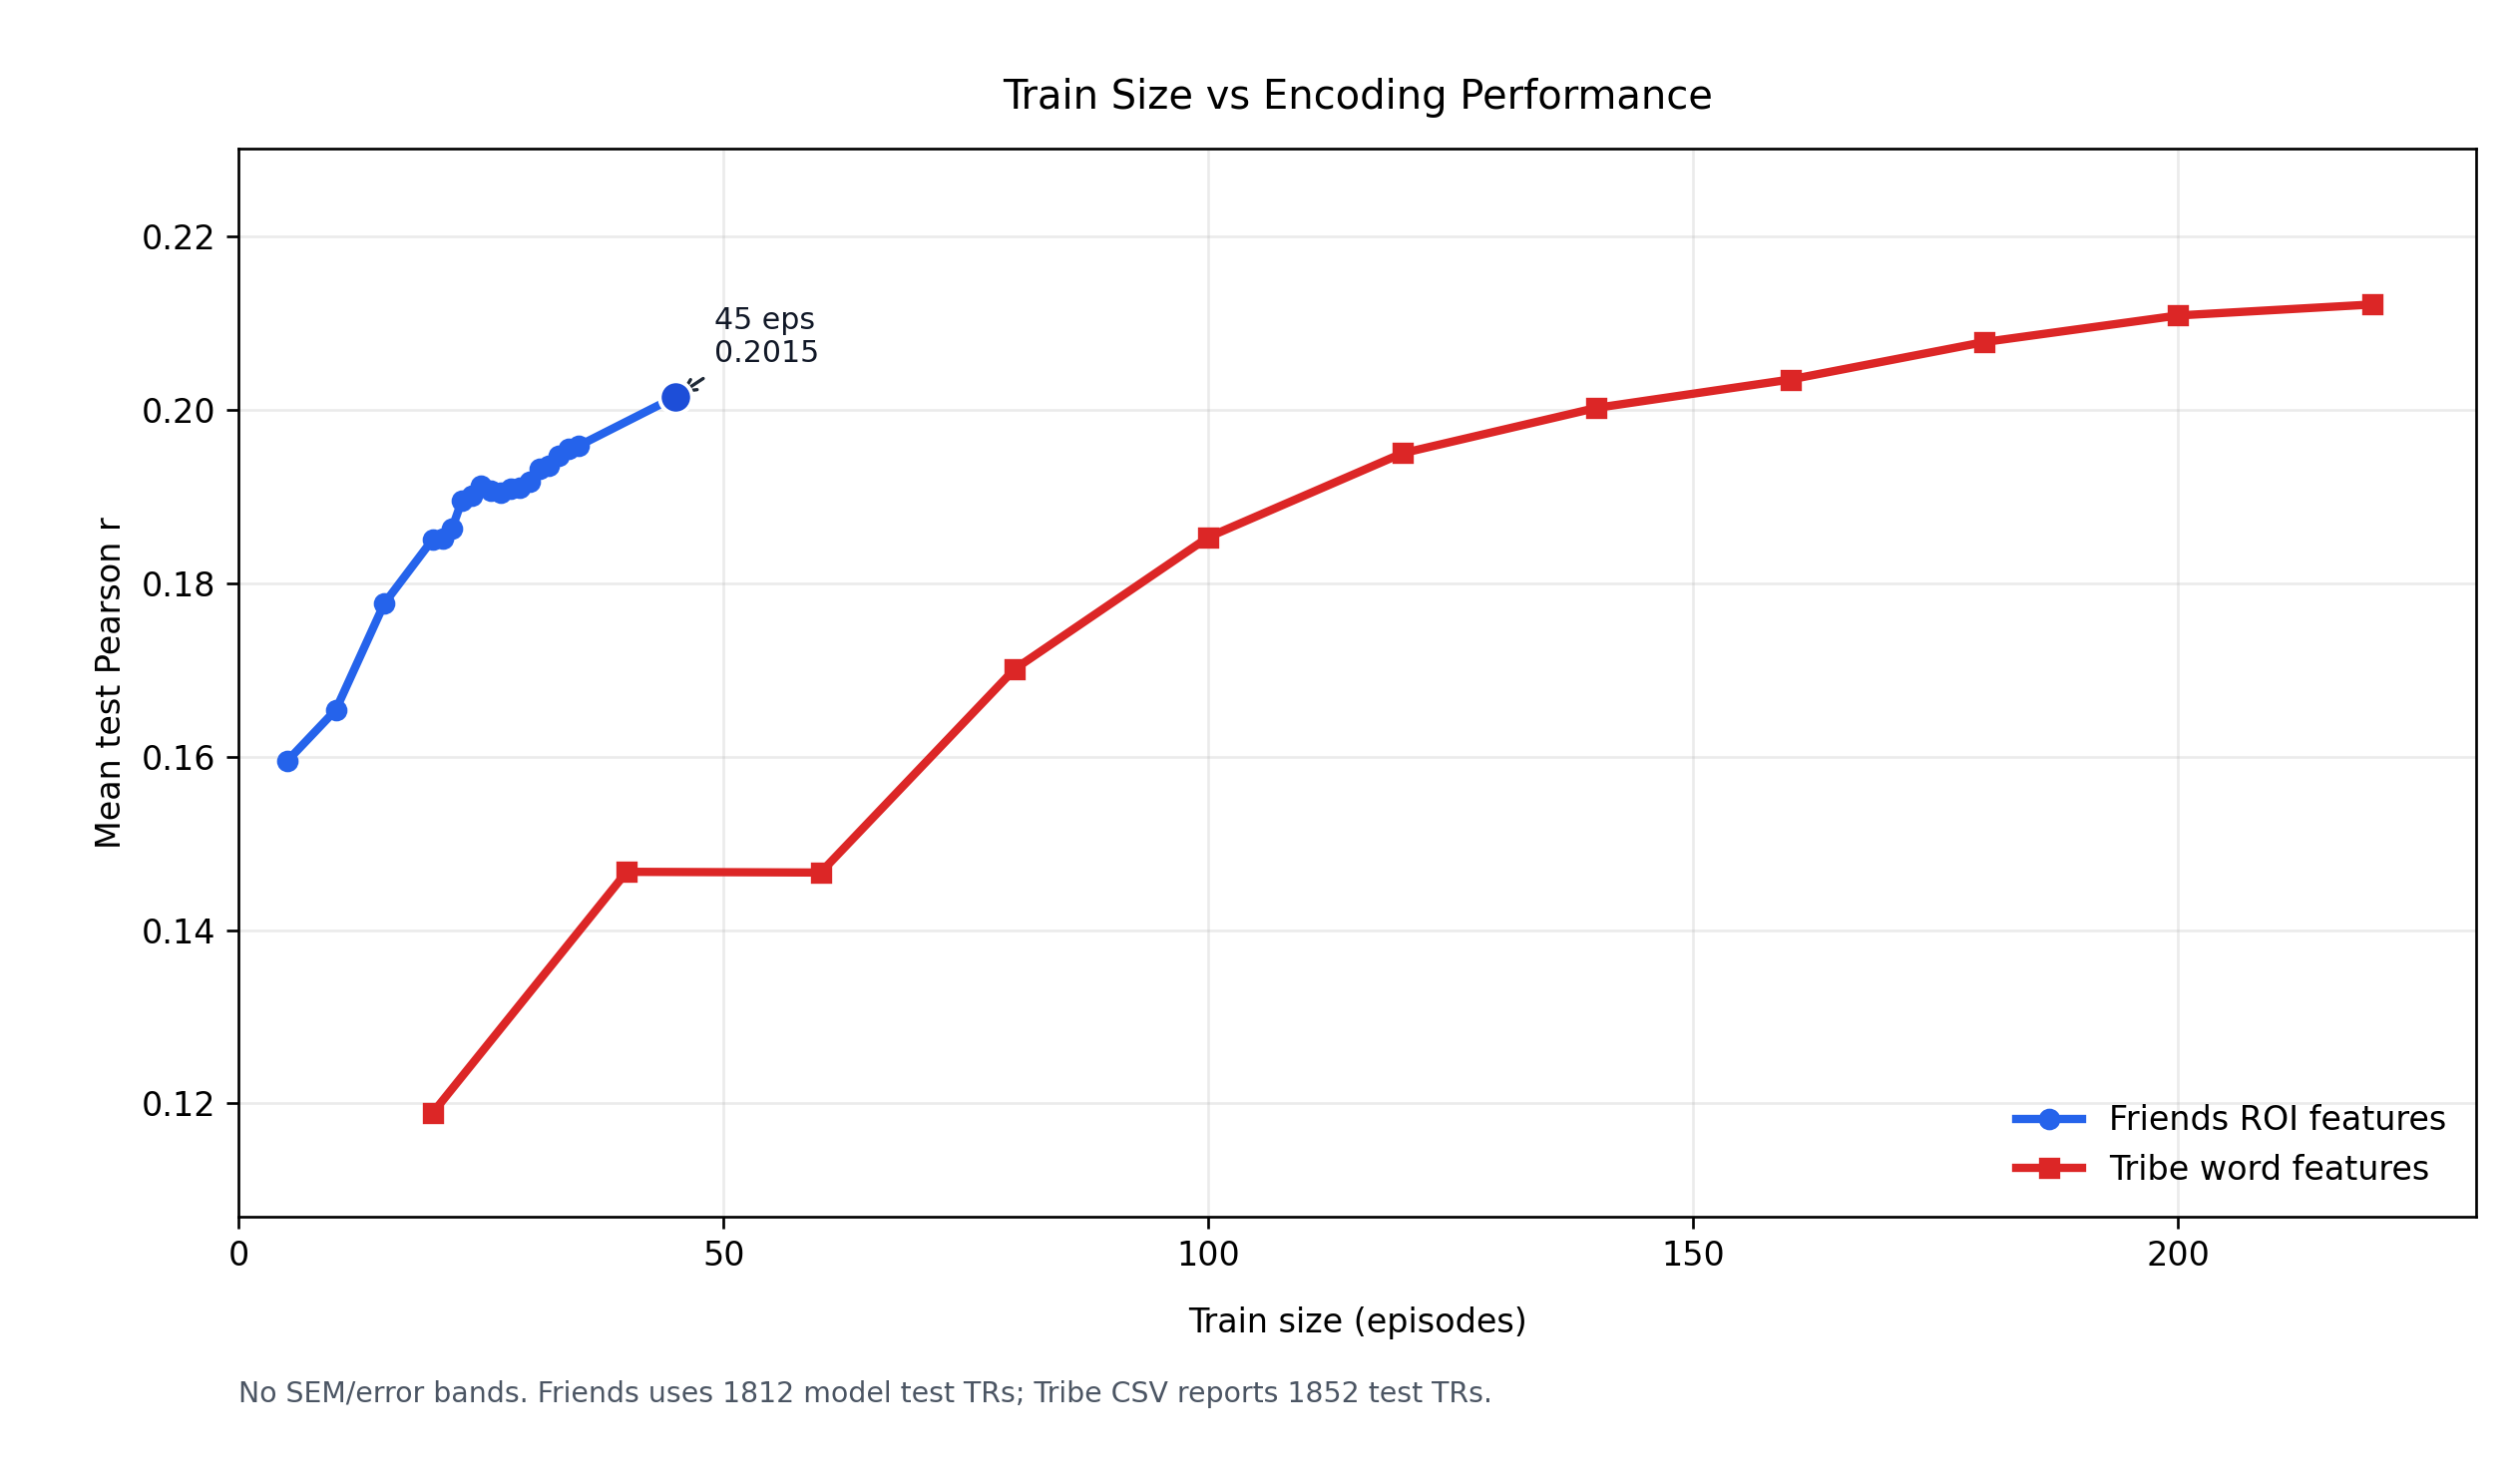
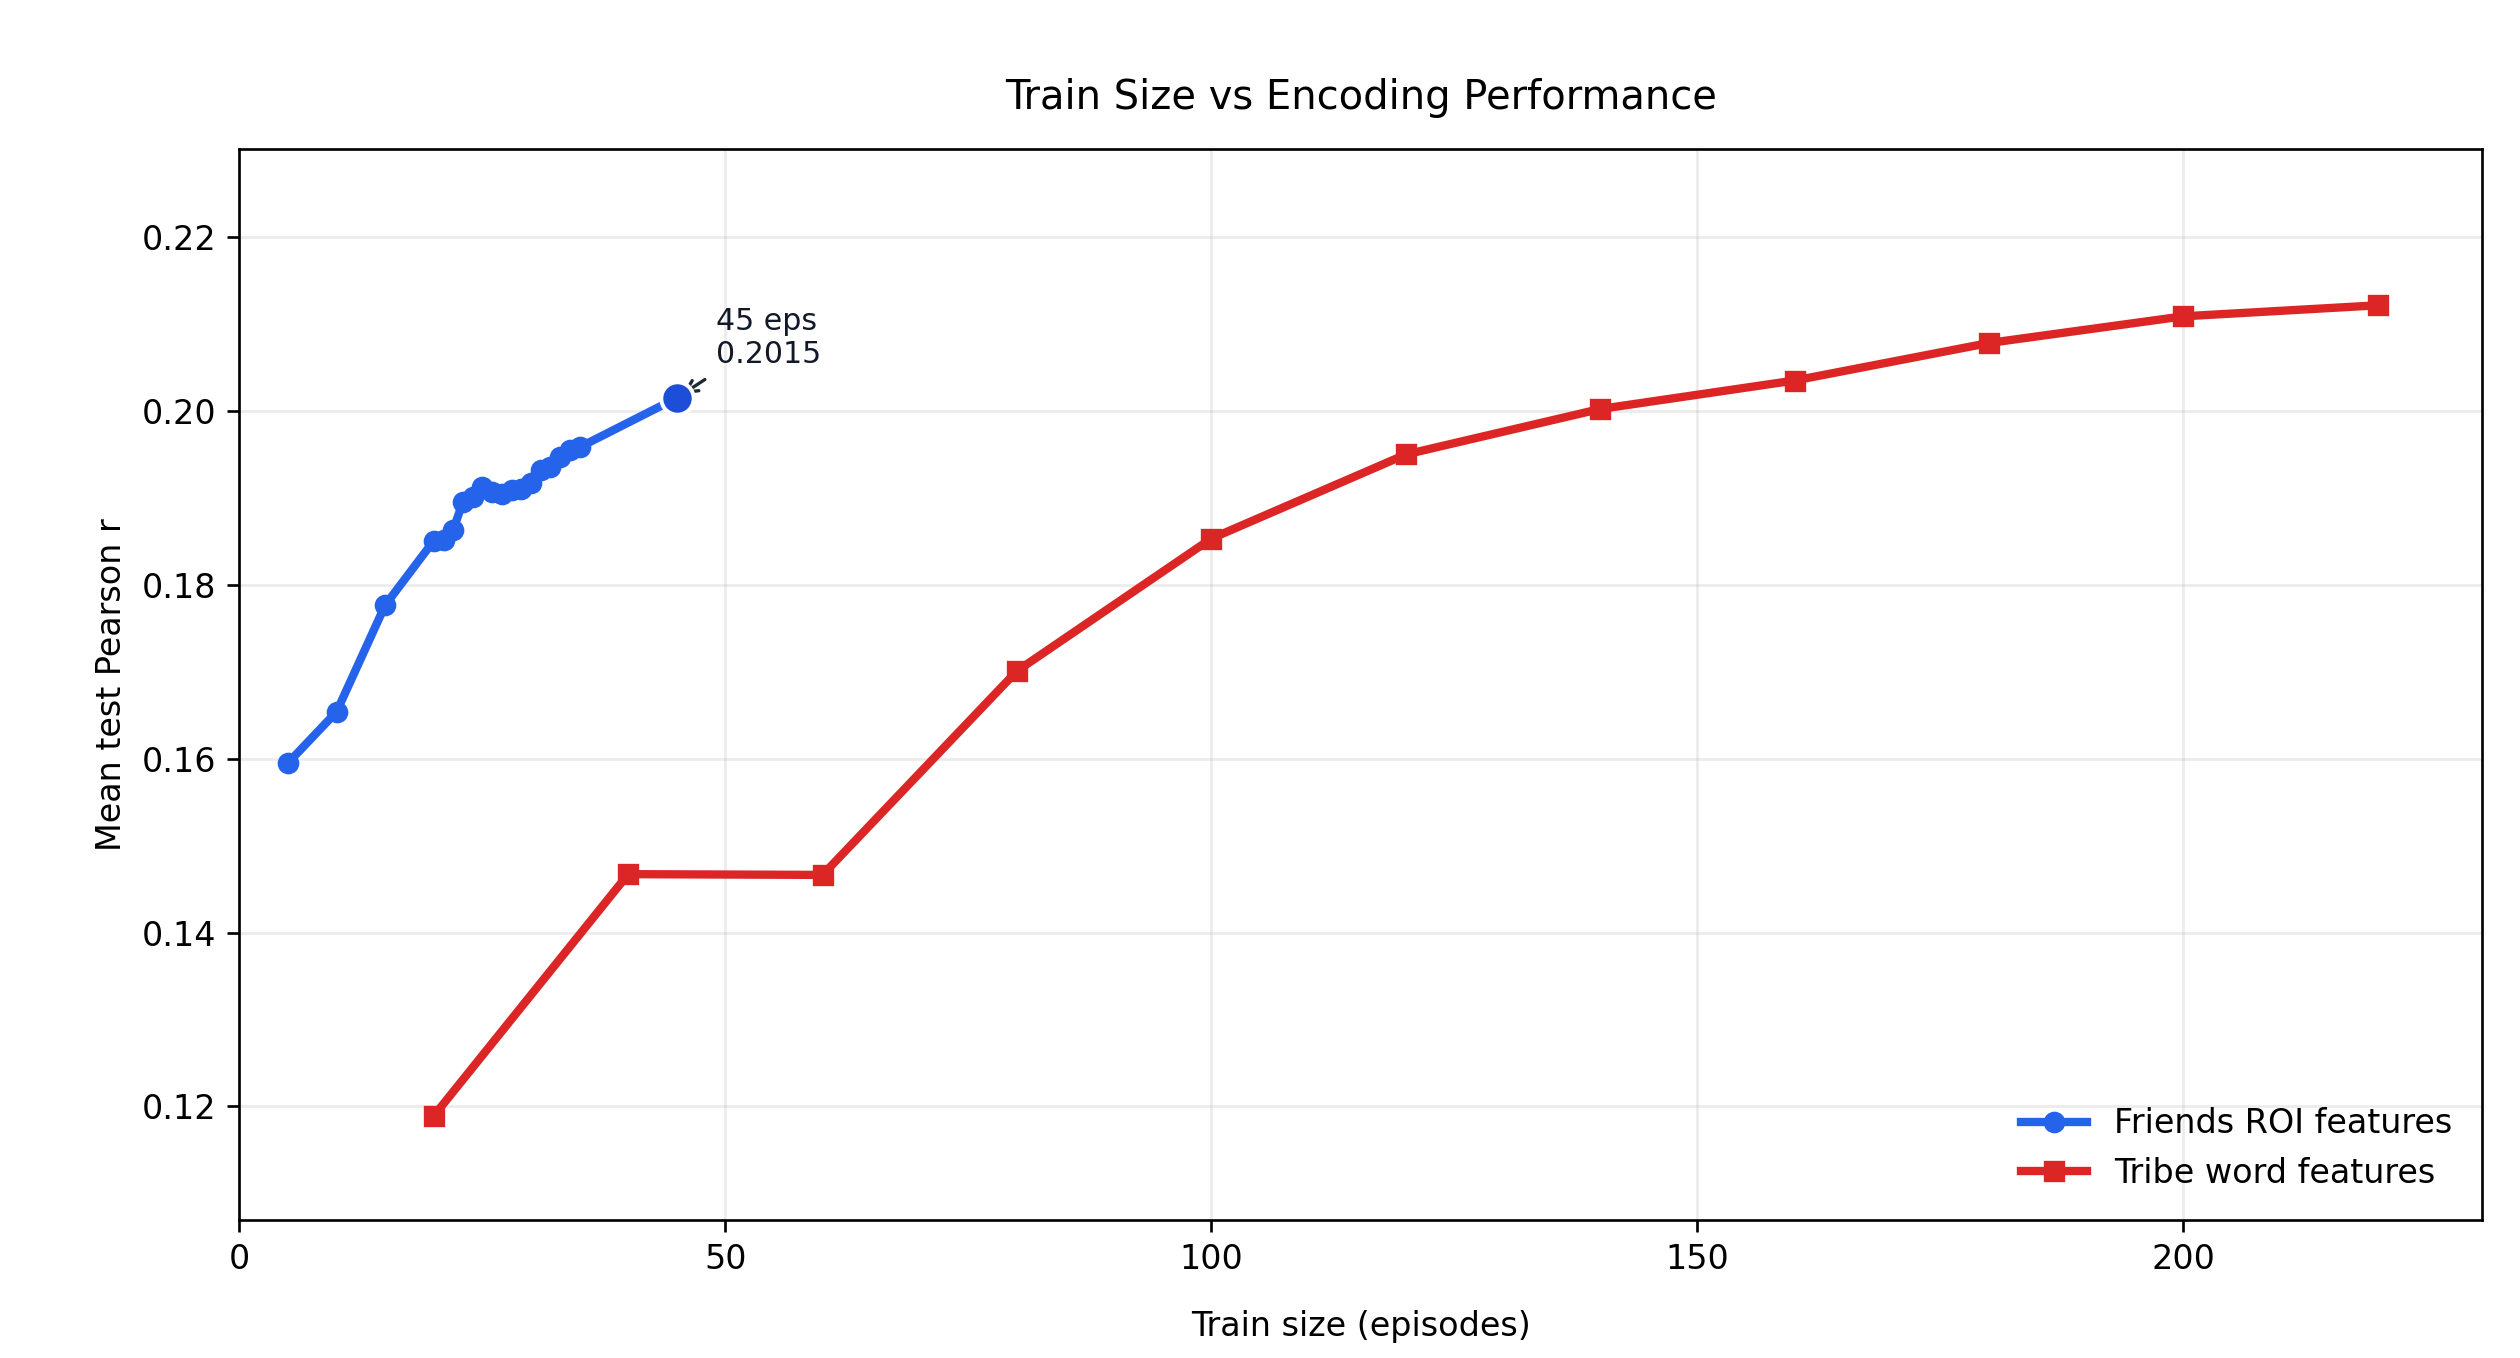
chore: add agent docs and comparison plot

diff --git a/docs/agents/issue-tracker.md b/docs/agents/issue-tracker.md
@@ -1,0 +1,28 @@
+# Issue tracker: GitHub
+
+Issues and PRDs for this repo live as GitHub issues. Use the `gh` CLI for issue operations.
+
+## Conventions
+
+- Create an issue with `gh issue create --title "..." --body "..."`
+- Read an issue with `gh issue view <number> --comments`
+- List issues with `gh issue list --state open --json number,title,body,labels,comments`
+- Comment with `gh issue comment <number> --body "..."`
+- Apply or remove labels with `gh issue edit <number> --add-label "..."` or `--remove-label "..."`
+- Close with `gh issue close <number> --comment "..."`
+
+Infer the repo from `git remote -v`; `gh` does this automatically inside the clone.
+
+## Pull requests as a triage surface
+
+PRs as a request surface: no.
+
+Do not pull external PRs into the same triage queue as issues unless this file is updated.
+
+## When a skill says "publish to the issue tracker"
+
+Create a GitHub issue.
+
+## When a skill says "fetch the relevant ticket"
+
+Run `gh issue view <number> --comments`.

diff --git a/docs/agents/domain.md b/docs/agents/domain.md
@@ -1,0 +1,27 @@
+# Domain Docs
+
+This repo uses a single-context domain docs layout.
+
+## Before exploring, read these
+
+- `CONTEXT.md` at the repo root
+- `docs/adr/` for architectural decisions that touch the area being changed
+
+If these files do not exist, proceed silently. Do not suggest creating them upfront; domain-modeling workflows create them lazily when terms or decisions are resolved.
+
+## Expected file structure
+
+```text
+/
+|-- CONTEXT.md
+|-- docs/adr/
+`-- src/
+```
+
+## Use the glossary's vocabulary
+
+When output names a domain concept, use the term as defined in `CONTEXT.md`. If the concept is missing, note the gap for later domain modeling rather than inventing inconsistent language.
+
+## Flag ADR conflicts
+
+If output contradicts an existing ADR, surface that conflict explicitly instead of silently overriding it.

diff --git a/AGENTS.md b/AGENTS.md
@@ -19,3 +19,17 @@ If you're using Codex or another agent-capable tool, additional project-scoped h
 Managed by Trellis. Edits outside this block are preserved; edits inside may be overwritten by a future `trellis update`.
 
 <!-- TRELLIS:END -->
+
+## Agent skills
+
+### Issue tracker
+
+Issues are tracked in GitHub Issues; external PRs are not a triage request surface. See `docs/agents/issue-tracker.md`.
+
+### Triage labels
+
+The repo uses the default five-label triage vocabulary. See `docs/agents/triage-labels.md`.
+
+### Domain docs
+
+This repo uses a single-context domain docs layout. See `docs/agents/domain.md`.

diff --git a/docs/agents/triage-labels.md b/docs/agents/triage-labels.md
@@ -1,0 +1,13 @@
+# Triage Labels
+
+The skills speak in terms of five canonical triage roles. This file maps those roles to the actual label strings used in this repo's issue tracker.
+
+| Label in mattpocock/skills | Label in our tracker | Meaning                                  |
+| -------------------------- | -------------------- | ---------------------------------------- |
+| `needs-triage`             | `needs-triage`       | Maintainer needs to evaluate this issue  |
+| `needs-info`               | `needs-info`         | Waiting on reporter for more information |
+| `ready-for-agent`          | `ready-for-agent`    | Fully specified, ready for an AFK agent  |
+| `ready-for-human`          | `ready-for-human`    | Requires human implementation            |
+| `wontfix`                  | `wontfix`            | Will not be actioned                     |
+
+When a skill mentions a role, use the corresponding label string from this table.